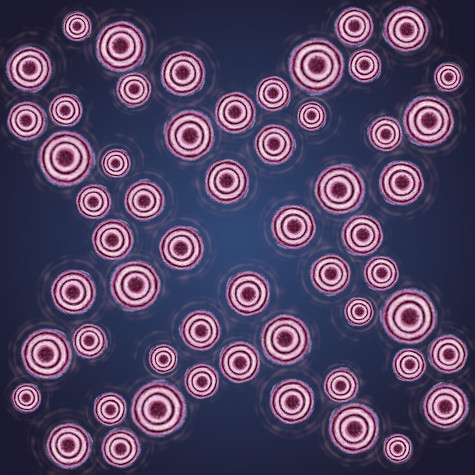
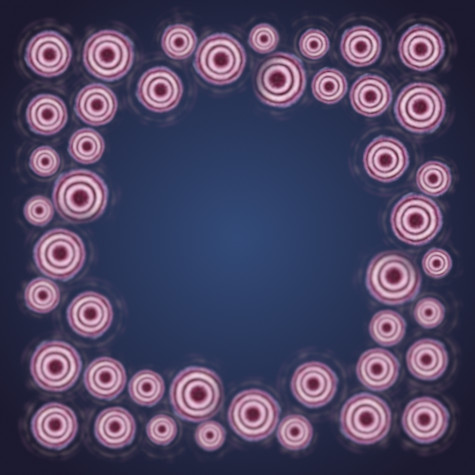
Changed purpleTile image and fixed import statements.

diff --git a/lanterns/src/App.js b/lanterns/src/App.js
@@ -1,12 +1,12 @@
 import React from 'react';
 import './App.css';
-import Player from './components/player/Players';
+import Player from './components/Player/Players';
 import RotateTileRight, { tile01 } from './components/LakeTileComponent/RotateTile';
 import lakeTileImage from './pictures/tile01-0.png';
-import LanternSupply from './components/supply/LanternSupply';
-import PlayerLakeTiles from './components/player/PlayerLakeTiles';
-import LanternCards from './components/player/LanternCards';
-import LanternCardsHorizontal from './components/player/LanternCardsHorizontal';
+import LanternSupply from './components/Supply/LanternSupply';
+import PlayerLakeTiles from './components/Player/PlayerLakeTiles';
+import LanternCards from './components/Player/LanternCards';
+import LanternCardsHorizontal from './components/Player/LanternCardsHorizontal';
 import LakeTile from './components/LakeTileComponent/LakeTile'
 
 // imports for testing
